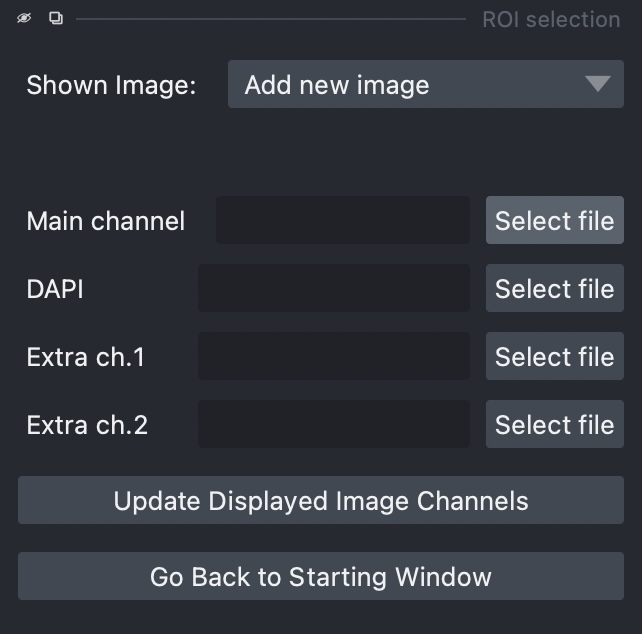
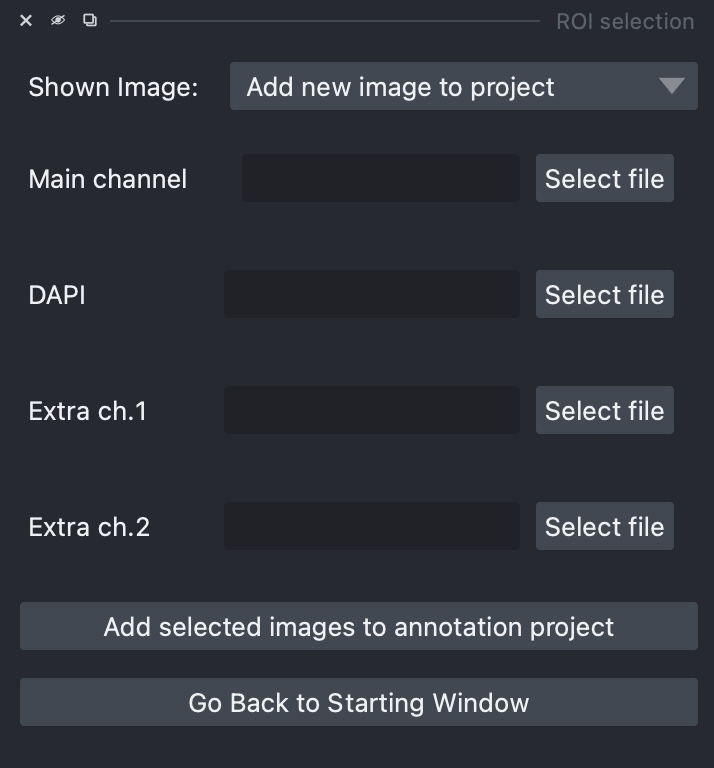
rebuilt docs

diff --git a/searchindex.js b/searchindex.js
@@ -1,1 +1,1 @@
-Search.setIndex({docnames:["cellpose-training-gui/cellpose_training/training","cellpose-training-gui/install","cellpose-training-gui/label_rois/label_rois","cellpose-training-gui/label_rois/napari_labeling","cellpose-training-gui/label_rois/quapth_labeling","cellpose-training-gui/select_rois","index"],envversion:{"sphinx.domains.c":2,"sphinx.domains.changeset":1,"sphinx.domains.citation":1,"sphinx.domains.cpp":4,"sphinx.domains.index":1,"sphinx.domains.javascript":2,"sphinx.domains.math":2,"sphinx.domains.python":3,"sphinx.domains.rst":2,"sphinx.domains.std":2,sphinx:56},filenames:["cellpose-training-gui/cellpose_training/training.md","cellpose-training-gui/install.md","cellpose-training-gui/label_rois/label_rois.md","cellpose-training-gui/label_rois/napari_labeling.md","cellpose-training-gui/label_rois/quapth_labeling.md","cellpose-training-gui/select_rois.md","index.md"],objects:{},objnames:{},objtypes:{},terms:{"0":[0,6],"1":[3,4,5],"100":5,"11":1,"120":[],"2":[0,3,4,5,6],"3":[1,3,5],"4":3,"5":3,"case":[0,1,4],"class":4,"default":0,"do":[0,3,4],"export":[0,1,4,6],"final":[1,3],"function":[0,3,4],"import":3,"long":4,"new":[0,1,3,4,6],"return":4,"switch":[3,5],"while":[4,5],A:[0,3],And:4,At:[0,5],But:4,For:[0,3,4,5],If:[0,1,3,4,5],In:[0,1,2,4,5],It:[1,4],Not:4,On:[4,5],The:[0,4],Then:[1,5],These:5,To:[1,3,4,5],With:4,abailoni:1,abl:4,about:[0,4],abov:[3,4],absolut:4,access:0,accord:4,accur:5,accuraci:4,achiev:0,acquir:5,acquisit:5,across:[4,5],act:4,action:[1,5],activ:[1,4],ad:6,adapt:4,add:[0,1,5],addit:5,adjust:[0,3,5],after:[0,1,4,5],again:5,alberto:[],algorithm:5,all:[0,1,3,4,5],allow:0,alreadi:1,also:[0,1,3,4,5],alt:4,altern:[0,1,4,5],an:[0,1,3,4,5],anaconda:1,ani:[0,3,5],annot:[0,1,6],anoth:[0,1,3,4,5],appear:4,applic:[],ar:[0,1,3,4,6],area:[3,4,5],arg:0,argument:1,around:[3,4,5],artifact:5,ask:1,auto:0,automat:[1,3,4,5],avail:[1,5],avoid:4,back:[3,4,5],backspac:5,bar:[],basic:4,becaus:5,been:[0,5],befor:[0,3],being:[],below:[3,4],best:4,between:5,black:[],border:[3,4,5],both:2,box:5,bright:[4,5],browser:[0,6],brush:3,button:[0,2,3,4,5],c:[1,4],call:[0,4],can:[0,1,2,3,4,5],cannot:[0,3],care:5,caus:4,cell:[0,2,3,5,6],cellpos:[],cellposetrain:0,center:4,central:5,challeng:5,chang:[0,3,4],channel:[0,2,3],check:4,choic:[],choos:[3,4,5],chosen:0,circl:4,circular:4,cli:[],click:[0,2,3,4,5],clink:5,close:5,cmd:4,color:[3,5],colormap:4,come:1,command:[0,1],complet:[3,4],compress:[0,4],conda:1,config:[0,1],configur:6,contain:[0,1,5],content:4,contrast:3,control:4,conveni:[0,1,4],copi:5,corner:[3,4,5],could:0,cpu:0,creat:[1,4,5,6],ctrl:[3,4],cuda:[0,6],cudatoolkit:1,current:[0,4,5],cursor:4,custom:[0,1,6],d:1,dapi:[0,2,5],darker:4,data:[1,5,6],dataset:5,decid:5,decreas:3,defin:0,delet:[4,5],dens:4,depend:[0,1,5],describ:[1,5],detail:[0,1],determin:4,develop:[],differ:5,difficult:5,digit:4,directli:[0,1,4],directori:[0,5],displai:[3,4,5],distinguish:4,distribut:4,document:[0,4],doe:[0,1],don:1,done:[0,1,2,4],doubl:4,down:[3,4],dozen:5,drag:[0,4,5],draw:[3,4,5],drop:[0,3],dropdown:5,due:5,e:6,each:[4,5],easier:[3,4,5],easiest:1,easili:[0,4],edit:4,effect:4,either:5,empti:1,end:0,enthusiast:4,env:1,environ:1,equival:4,eras:[3,4],erod:[],etc:5,even:[0,5],exampl:3,excit:4,execut:[],exist:[1,3,4],expand:3,expect:[],experiment:[],explain:[3,4],expos:0,extend:4,extern:[0,6],extra:[0,5],familiar:[],featur:[4,6],few:[0,4,5],field:5,file:[0,1,4,5],fill:3,find:[1,3,4],first:[1,3,4],flow:3,folder:[0,1,4],follow:[0,1,3,4,5],forg:1,forget:4,format:[],found:[0,1,3,5],four:5,freez:5,from:[0,1,4,5,6],futur:[],g:6,gener:[1,2],get:[2,6],go:[3,4,5],good:4,gpu:[0,6],graphic:[0,6],green:[0,2],gui:0,ha:[0,4,5],handi:4,have:[0,1,2,3,4,5],help:[3,4,5],here:[0,1,3,5],high:4,higher:5,hold:4,how:[0,6],howev:[1,3],idea:4,ideal:[0,5],imag:[0,1,2,3,6],immedi:5,implement:5,improv:5,includ:5,increas:3,indic:5,initi:3,inpiut:[],input:[0,1,2,5],input_imag:5,insert:5,insid:[0,3,4,5],instal:[0,6],instanc:2,instruct:[0,1],intens:4,interest:[0,1,3,4,6],interfac:[0,1,5,6],item:4,its:[0,3],itself:5,just:0,keep:[0,3,5],kei:[3,4,5],keyboard:4,kwarg:0,label:[3,4],laptop:[],larg:4,larger:4,last:[0,3,4],later:[0,5],latest:1,lauch:4,launch:[],layer:[3,5],least:5,leav:0,left:[3,4,5],len:[3,5],let:5,level:4,lighter:4,like:[0,1,4,5],limit:[3,4],line:[0,1],linux:1,list:[3,4],load:[0,4,5],local:0,locat:[4,5],longer:0,look:[0,1,5],lower:4,m:3,mac:[1,4],machin:[0,1,5],magnif:4,mai:[0,1,3,4,5],main:[0,1,2,3,5,6],main_config:0,make:[0,1,3,4,5],manag:0,mani:1,manual:[0,1,2,3,4,5],mark:4,max:4,me:[],meantim:[],menu:[3,4,5],merg:4,method:5,microscopi:[],min:4,mind:[0,3,5],mini:4,miniconda:1,model:6,model_nam:0,modif:[],modifi:[0,5],moment:[3,5],more:[0,1,3,4,5],most:[3,4,5],mous:[3,4,5],move:[0,3,5],much:[0,4],multipl:[4,6],my_model:0,my_model_nam:0,name:[1,4,5],napari:[1,4,6],navig:4,necessari:[],need:[0,1,4,5],next:0,note:[],object:4,off:4,offic:[],often:5,onc:[0,3,4,5],one:[1,3,5,6],ones:0,onli:[1,4,5],opac:3,open:[0,3,4,5],option:[0,1,4,5,6],origin:3,os:1,oss:1,other:[2,3,4],otherwis:[0,1,2,5],out:[3,4,5],over:3,overlap:4,overshoot:4,overview:4,paint:[3,4],painterli:4,panel:4,paramet:0,part:5,particularli:[4,5],pass:[0,1],path:[1,5],pen:4,perform:[0,1,5],pick:3,picker:3,pinch:4,pip:1,pixel:4,place:0,plan:[0,1],pleas:1,possibl:5,pour:3,power:4,powershel:[],predict:0,prefer:[],prepar:0,preprocess:0,present:[0,1,2,5],press:[3,4,5],previous:[1,4],principl:0,probabl:4,proce:[0,5],process:[0,1,2,3,4,5],program:2,proj_dir:0,project:[4,6],project_dir:[],prompt:[],properli:5,provid:[0,4],put:4,python:[],pytorch:[0,1],qpproj:4,qualiti:5,quickli:[4,6],qupath:6,qupathproject:4,recap:3,rectangl:5,rectangular:5,red:[0,2],region:[0,1,3,4,6],rel:5,releas:4,rememb:[3,4],remot:[0,1,6],remov:4,repres:[0,2,5],result:[0,4,5],revert:4,right:[3,4,5],roi:[3,4,5],run:[0,1],s:4,same:5,satur:0,save:[0,3,4,5],scenario:5,screen:4,script:[],scroll:[3,4,5],sdvillal:1,second:[4,5],section:0,see:[0,1,3,4,5],seen:4,segment:[0,1,2,4,5,6],select:[0,2,3,4,6],send:[],server:[0,6],set:[0,2,4],setup_train:0,sever:5,shape:5,shell:[],shift:4,should:[1,3,4,5],show:[2,4],shown:[4,5],side:5,similar:[0,1,4],simpl:4,simpli:[0,1,3,4,5],singl:4,singularli:4,size:[3,4,5],slider:[3,4],small:4,so:[3,4,5],softwar:[1,6],some:[0,1,3],somehow:5,someth:[1,3],soon:1,space:4,spacebar:[3,4,5],spacem:1,spacem_annot:[],spacem_annotator_env:[],specif:[1,4],specifi:1,spread:4,standard:4,start:[2,3,5,6],step:1,still:[],store:5,subdirectori:[0,5],substanti:4,subtract:4,success:[],support:[0,6],sure:[0,1,3,5],surfac:[],surround:4,t:[0,1,5],tab:4,tablet:[],take:[0,5],temporarili:4,termin:[],test:0,than:4,thei:[0,1,4,5],them:[0,1,5],thi:[0,1,2,4,5],those:0,though:5,three:5,tick:0,time:[0,1,3,5],tip:4,todo:[],tool:[0,2,5,6],toolbar:[4,5],top:[3,4,5],torchaudio:1,torchvis:1,touch:4,trackpad:[3,4,5],train:5,train_config:0,traincellpos:[0,2,3,4,5],traincellpose_env:1,traincellposeserv:0,training_imag:0,transpar:3,turn:4,tutori:3,two:4,type:1,under:[],undo:[3,4],until:3,up:5,updat:[0,3,4],us:[0,1,5,6],usual:5,valu:0,veri:4,version:[0,1],via:[0,1,6],viewer:[1,3,4,5],wa:[3,4],wai:[0,4],want:[0,1,3,4,5],web:0,websit:1,well:4,what:[1,6],wheel:4,when:[1,2,3,4,5],whenev:4,where:[0,4,5],which:1,window:[0,3,4,5],wish:4,within:4,without:4,won:[0,5],word:4,work:[1,4],worri:4,would:[4,5],yml:0,you:[0,1,2,3,4,5],your:[0,1,2,3,4,5,6],yourself:[],z:[3,4],zero:[0,2],zip:[0,4],zoom:[3,5]},titles:["Train Cellpose Models","Getting started","Annotate Regions of Interest","Annotating in Napari","Annotating in QuPath","Select Regions of Interest","Cellpose Training GUI"],titleterms:{"case":5,"new":5,The:1,ad:5,adjust:4,annot:[2,3,4,5],ar:5,b:4,basic:1,brows:5,brush:4,cell:4,cellpos:[0,1,2,6],channel:[4,5],cli:[],command:[],configur:0,content:[],contrast:4,creat:[],cuda:1,custom:[],daemon:1,data:0,directori:1,document:6,e:2,exampl:5,extern:2,first:5,format:0,full:1,g:2,gener:0,get:[0,1,4],go:[],good:5,gpu:1,gui:6,how:[1,5],imag:[4,5],input:[],instal:1,interest:[2,5],label:[],local:1,m:4,machin:[],manual:[],model:[0,1],modifi:[],move:4,napari:[2,3,5],one:4,ones:5,pan:4,paramet:[],project:[1,5],qupath:[1,2,4],region:[2,5],requir:1,run:[],select:[1,5],server:1,shortcut:4,softwar:2,some:5,spacem:[],start:[0,1,4],summari:4,support:1,surfac:[],tablet:[],tip:[],tool:[1,3,4],toolbar:3,train:[0,1,6],traincellpos:1,updat:5,us:[2,3,4],view:4,w:4,wand:4,what:5,window:1,your:[],zoom:4}})
+Search.setIndex({docnames:["cellpose-training-gui/cellpose_training/training","cellpose-training-gui/install","cellpose-training-gui/label_rois/label_rois","cellpose-training-gui/label_rois/napari_labeling","cellpose-training-gui/label_rois/quapth_labeling","cellpose-training-gui/select_rois","index"],envversion:{"sphinx.domains.c":2,"sphinx.domains.changeset":1,"sphinx.domains.citation":1,"sphinx.domains.cpp":4,"sphinx.domains.index":1,"sphinx.domains.javascript":2,"sphinx.domains.math":2,"sphinx.domains.python":3,"sphinx.domains.rst":2,"sphinx.domains.std":2,sphinx:56},filenames:["cellpose-training-gui/cellpose_training/training.md","cellpose-training-gui/install.md","cellpose-training-gui/label_rois/label_rois.md","cellpose-training-gui/label_rois/napari_labeling.md","cellpose-training-gui/label_rois/quapth_labeling.md","cellpose-training-gui/select_rois.md","index.md"],objects:{},objnames:{},objtypes:{},terms:{"0":[0,6],"1":[3,4,5],"100":5,"11":1,"120":[],"2":[0,3,4,5,6],"3":[1,3,5],"4":3,"5":3,"case":[0,1,4],"class":4,"default":0,"do":[0,3,4],"export":[0,1,4,6],"final":[1,3],"function":[0,3,4],"import":3,"long":4,"new":[0,1,3,4,6],"return":4,"switch":[3,5],"while":[4,5],A:[0,3],And:4,At:[0,5],But:4,For:[0,3,4,5],If:[0,1,3,4,5],In:[0,1,2,4,5],It:[1,4],Not:4,On:[4,5],The:[0,4],Then:[1,5],These:5,To:[1,3,4,5],With:4,abailoni:1,abl:[4,5],about:[0,4],abov:[3,4],absolut:4,access:0,accord:4,accur:5,accuraci:4,achiev:0,acquir:5,acquisit:5,across:[4,5],act:4,action:[1,5],activ:[1,4],ad:6,adapt:4,add:[0,1,5],addit:5,adjust:[0,3,5],after:[0,1,4,5],again:[],alberto:[],algorithm:5,all:[0,1,3,4,5],allow:0,alreadi:1,also:[0,1,3,4,5],alt:4,altern:[0,1,4,5],an:[0,1,3,4,5],anaconda:1,ani:[0,3,5],annot:[0,1,6],anoth:[0,1,3,4,5],appear:[4,5],applic:[],ar:[0,1,3,4,6],area:[3,4,5],arg:0,argument:1,around:[3,4,5],artifact:5,ask:1,auto:0,automat:[1,3,4,5],avail:[1,5],avoid:4,back:[3,4,5],backspac:5,bar:[],basic:4,becaus:5,been:[0,5],befor:[0,3],being:[],below:[3,4],best:4,between:5,black:[],border:[3,4,5],both:2,box:5,bright:[4,5],browser:[0,6],brush:3,button:[0,2,3,4,5],c:[1,4],call:[0,4],can:[0,1,2,3,4,5],cannot:[0,3],care:5,caus:4,cell:[0,2,3,5,6],cellpos:[],cellposetrain:0,center:4,central:5,challeng:5,chang:[0,3,4],channel:[0,2,3],check:4,choic:5,choos:[3,4,5],chosen:0,circl:4,circular:4,cli:[],click:[0,2,3,4,5],clink:5,close:5,cmd:4,color:3,colormap:4,come:1,command:[0,1],compat:5,complet:[3,4],compress:[0,4],conda:1,config:[0,1],configur:6,contain:[0,1,5],content:4,contrast:3,control:4,conveni:[0,1,4],copi:5,corner:[3,4,5],could:0,cpu:0,creat:[1,4,5,6],ctrl:[3,4],cuda:[0,6],cudatoolkit:1,current:[0,4,5],cursor:4,custom:[0,1,6],d:1,dapi:[0,2,5],darker:4,data:[1,5,6],dataset:5,decid:5,decreas:3,defin:0,delet:[4,5],dens:4,depend:[0,1,5],describ:[1,5],detail:[0,1],determin:4,develop:[],differ:5,difficult:5,digit:4,directli:[0,1,4,5],directori:[0,5],displai:[3,4,5],distinguish:4,distribut:4,document:[0,4],doe:[0,1],don:1,done:[0,1,2,4],doubl:4,down:[3,4],dozen:5,drag:[0,4,5],draw:[3,4,5],drop:[0,3],dropdown:5,due:5,e:6,each:[4,5],easier:[3,4,5],easiest:1,easili:[0,4],edit:4,effect:4,either:5,empti:1,end:0,enthusiast:4,env:1,environ:1,equival:4,eras:[3,4],erod:[],etc:5,even:[0,5],exampl:3,excit:4,execut:[],exist:[1,3,4],expand:3,expect:[],experiment:[],explain:[3,4],expos:0,extend:4,extern:[0,6],extra:[0,5],familiar:[],featur:[4,6],few:[0,4,5],field:5,file:[0,1,4,5],fill:3,find:[1,3,4],first:[1,3,4],flow:3,folder:[0,1,4,5],follow:[0,1,3,4,5],forg:1,forget:4,format:5,found:[0,1,3,5],four:5,freez:5,from:[0,1,4,5,6],futur:[],g:6,gener:[1,2],get:[2,6],go:[3,4,5],good:4,gpu:[0,6],graphic:[0,6],green:[0,2],group:5,gui:0,ha:[0,4,5],handi:4,have:[0,1,2,3,4,5],help:[3,4,5],here:[0,1,3,5],hidden:5,high:4,higher:5,hold:4,how:[0,6],howev:[1,3],idea:4,ideal:[0,5],imag:[0,1,2,3,6],immedi:5,implement:5,improv:5,includ:5,increas:3,indic:5,initi:3,inpiut:[],input:[0,1,2,5],input_imag:5,insert:5,insid:[0,3,4,5],instal:[0,6],instanc:2,instruct:[0,1],intens:4,interest:[0,1,3,4,6],interfac:[0,1,5,6],item:4,its:[0,3],itself:5,just:0,keep:[0,3,5],kei:[3,4,5],keyboard:4,kwarg:0,label:[3,4],laptop:[],larg:4,larger:4,last:[0,3,4],later:[0,5],latest:1,lauch:4,launch:[],layer:[3,5],least:5,leav:0,left:[3,4,5],len:[3,5],let:5,level:4,lighter:4,like:[0,1,4,5],limit:[3,4],line:[0,1],linux:1,list:[3,4],load:[0,4,5],local:0,locat:[4,5],longer:0,look:[0,1,5],lower:4,m:3,mac:[1,4],machin:[0,1,5],magnif:4,mai:[0,1,3,4,5],main:[0,1,2,3,5,6],main_config:0,make:[0,1,3,4,5],manag:0,mani:1,manual:[0,1,2,3,4,5],mark:4,max:4,me:[],meantim:[],menu:[3,4,5],merg:4,method:5,microscopi:[],min:4,mind:[0,3,5],mini:4,miniconda:1,model:6,model_nam:0,modif:[],modifi:[0,5],moment:[3,5],more:[0,1,3,4,5],most:[3,4,5],mous:[3,4,5],move:[0,3,5],much:[0,4],multipl:[4,5,6],my_model:0,my_model_nam:0,name:[1,4,5],napari:[1,4,6],navig:4,necessari:[],need:[0,1,4,5],next:0,note:[],object:4,off:4,offic:[],often:5,onc:[0,3,4,5],one:[1,3,5,6],ones:0,onli:[1,4,5],opac:3,open:[0,3,4,5],option:[0,1,4,5,6],origin:3,os:[1,5],oss:1,other:[2,3,4],otherwis:[0,1,2,5],out:[3,4,5],over:3,overlap:4,overshoot:4,overview:4,paint:[3,4],painterli:4,panel:4,paramet:0,part:5,particularli:[4,5],pass:[0,1],past:5,path:[1,5],pen:4,perform:[0,1,5],pick:3,picker:3,pinch:4,pip:1,pixel:4,place:0,plan:[0,1],pleas:1,png:5,possibl:5,pour:3,power:4,powershel:[],predict:0,prefer:[],prepar:0,preprocess:0,present:[0,1,2,5],press:[3,4,5],previous:[1,4],principl:0,probabl:4,proce:[0,5],process:[0,1,2,3,4,5],program:2,proj_dir:0,project:[4,6],project_dir:[],prompt:[],properli:5,provid:[0,4],put:4,python:[],pytorch:[0,1],qpproj:4,qualiti:5,quickli:[4,6],qupath:6,qupathproject:4,recap:3,rectangl:5,rectangular:5,red:[0,2],region:[0,1,3,4,6],rel:5,releas:4,rememb:[3,4],remot:[0,1,6],remov:4,repres:[0,2,5],result:[0,4,5],revert:4,right:[3,4,5],roi:[3,4,5],run:[0,1],s:4,same:5,satur:0,save:[0,3,4,5],scenario:5,screen:4,script:[],scroll:[3,4,5],sdvillal:1,second:[4,5],section:0,see:[0,1,3,4,5],seen:4,segment:[0,1,2,4,5,6],select:[0,2,3,4,6],send:[],server:[0,6],set:[0,2,4,5],setup_train:0,sever:5,shape:5,shell:[],shift:4,should:[1,3,4,5],show:[2,4],shown:[4,5],side:5,similar:[0,1,4],simpl:4,simpli:[0,1,3,4],singl:4,singularli:4,size:[3,4,5],slider:[3,4],small:4,so:[3,4,5],softwar:[1,6],some:[0,1,3],somehow:5,someth:[1,3],soon:1,space:4,spacebar:[3,4,5],spacem:1,spacem_annot:[],spacem_annotator_env:[],specif:[1,4],specifi:1,spread:4,standard:4,start:[2,3,5,6],step:1,still:[],store:5,sub:5,subdirectori:[0,5],substanti:4,subtract:4,success:[],support:[0,5,6],sure:[0,1,3,5],surfac:[],surround:4,t:[0,1,5],tab:4,tablet:[],take:[0,5],temporarili:4,termin:[],test:0,than:4,thei:[0,1,4,5],them:[0,1,5],thi:[0,1,2,4,5],those:0,though:5,three:5,thu:5,tick:0,tif:5,time:[0,1,3,5],tip:4,todo:[],tool:[0,2,5,6],toolbar:[4,5],top:[3,4,5],torchaudio:1,torchvis:1,touch:4,trackpad:[3,4,5],train:5,train_config:0,traincellpos:[0,2,3,4,5],traincellpose_env:1,traincellposeserv:0,training_imag:0,transpar:3,turn:4,tutori:3,two:4,type:1,under:[],undo:[3,4],until:3,up:5,updat:[0,3,4],us:[0,1,5,6],usual:5,valu:0,veri:4,version:[0,1],via:[0,1,6],viewer:[1,3,4,5],wa:[3,4],wai:[0,4],want:[0,1,3,4,5],web:0,websit:1,well:4,what:[1,6],wheel:4,when:[1,2,3,4,5],whenev:4,where:[0,4,5],which:1,window:[0,3,4,5],wish:4,within:4,without:4,won:[0,5],word:4,work:[1,4,5],worri:4,would:[4,5],yml:0,you:[0,1,2,3,4,5],your:[0,1,2,3,4,5,6],yourself:[],z:[3,4],zarr:5,zarrai:5,zero:[0,2],zgroup:5,zip:[0,4],zoom:[3,5]},titles:["Train Cellpose Models","Getting started","Annotate Regions of Interest","Annotating in Napari","Annotating in QuPath","Select Regions of Interest","Cellpose Training GUI"],titleterms:{"case":5,"new":5,The:1,ad:5,adjust:4,annot:[2,3,4,5],ar:5,b:4,basic:1,brows:5,brush:4,cell:4,cellpos:[0,1,2,6],channel:[4,5],cli:[],command:[],configur:0,content:[],contrast:4,creat:[],cuda:1,custom:[],daemon:1,data:0,directori:1,document:6,e:2,exampl:5,extern:2,first:5,format:0,full:1,g:2,gener:0,get:[0,1,4],go:[],good:5,gpu:1,gui:6,how:[1,5],imag:[4,5],input:[],instal:1,interest:[2,5],label:[],local:1,m:4,machin:[],manual:[],model:[0,1],modifi:[],move:4,napari:[2,3,5],one:4,ones:5,pan:4,paramet:[],project:[1,5],qupath:[1,2,4],region:[2,5],requir:1,run:[],select:[1,5],server:1,shortcut:4,softwar:2,some:5,spacem:[],start:[0,1,4],summari:4,support:1,surfac:[],tablet:[],tip:[],tool:[1,3,4],toolbar:3,train:[0,1,6],traincellpos:1,updat:5,us:[2,3,4],view:4,w:4,wand:4,what:5,window:1,your:[],zoom:4}})

diff --git a/cellpose-training-gui/select_rois.html b/cellpose-training-gui/select_rois.html
@@ -245,7 +245,12 @@
 <li><p><strong>DAPI channel</strong>: If available, add a DAPI channel because it often improves segmentation results</p></li>
 <li><p><strong>Extra channels</strong>: If you have additional channels that may be helpful for the manual annotation process, you can load them. They won’t be used by the segmentation algorithm though.</p></li>
 </ul>
-<p>After you select the files with the image channels, click on <em>Update Displayed Image Channels</em>. This will add the image to the project and the image channels will be loaded in napari in different colors.</p>
+<p>At the moment you can load images in <code class="docutils literal notranslate"><span class="pre">.tif</span></code>, <code class="docutils literal notranslate"><span class="pre">.png</span></code>, and <code class="docutils literal notranslate"><span class="pre">zarr</span></code> formats (currently working on adding compatibility with all image formats supported by Napari). If the loaded image (or zarr group) has multiple channels or sub-images in it, an additional choice-box will appear, letting you choose the channel you want to use.</p>
+<p>After you select the files with the image channels, click on <code class="docutils literal notranslate"><span class="pre">Add</span> <span class="pre">selected</span> <span class="pre">images</span> <span class="pre">to</span> <span class="pre">annotation</span> <span class="pre">project</span></code>. This will add the image to the project.</p>
+<div class="admonition note">
+<p class="admonition-title">Note</p>
+<p><strong>ZARR images</strong>: Currently, if you click on <code class="docutils literal notranslate"><span class="pre">Select</span> <span class="pre">File</span></code> you will only be able to select files, but not directories. Thus, if you want to load a zarr image, you can either paste the path of the zarr folder directly into the path field, or you can click on <code class="docutils literal notranslate"><span class="pre">Select</span> <span class="pre">file</span></code> button and then select the <code class="docutils literal notranslate"><span class="pre">.zarray</span></code> or <code class="docutils literal notranslate"><span class="pre">.zgroup</span></code> files included in the zarr folder of the image (for this, you may need to set your OS to display hidden files).</p>
+</div>
 <div class="admonition tip">
 <p class="admonition-title">Tip</p>
 <p>If you copy the images that you want to add to the project into the <code class="docutils literal notranslate"><span class="pre">traincellpose</span></code> project directory itself (for example in the <code class="docutils literal notranslate"><span class="pre">input_images</span></code> subdirectory), then only relative paths will be stored and the input images will be found even if you later decide to move your annotation project directory to another location or another machine.</p>
@@ -258,7 +263,7 @@
 </section>
 <section id="updating-image-channels">
 <h3>Updating image channels<a class="headerlink" href="#updating-image-channels" title="Permalink to this headline">¶</a></h3>
-<p>At any moment, you can update the channel paths of an image added to the project. Simply update the path and then click again on the <code class="docutils literal notranslate"><span class="pre">Update</span> <span class="pre">Displayed</span> <span class="pre">Image</span> <span class="pre">Channels</span></code> button.</p>
+<p>At any moment, you can update the channel paths of an image added to the project. Select the image you want to update, click on <code class="docutils literal notranslate"><span class="pre">Update</span> <span class="pre">channel</span> <span class="pre">paths</span> <span class="pre">for</span> <span class="pre">selected</span> <span class="pre">image</span></code>, update the paths, and then click on the <code class="docutils literal notranslate"><span class="pre">Update</span> <span class="pre">image</span> <span class="pre">paths</span> <span class="pre">in</span> <span class="pre">annotation</span> <span class="pre">project</span></code> button.</p>
 </section>
 </section>
 <section id="selecting-regions-of-interest-in-napari">
